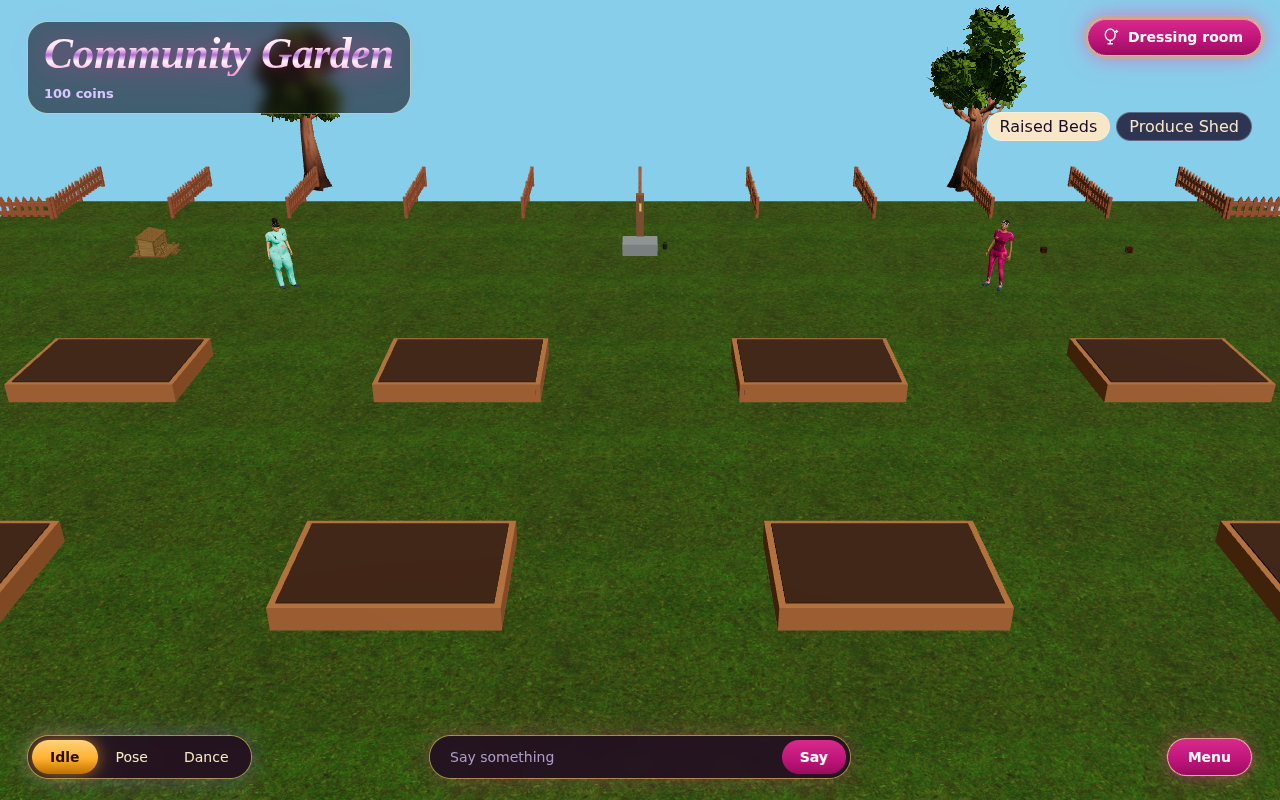
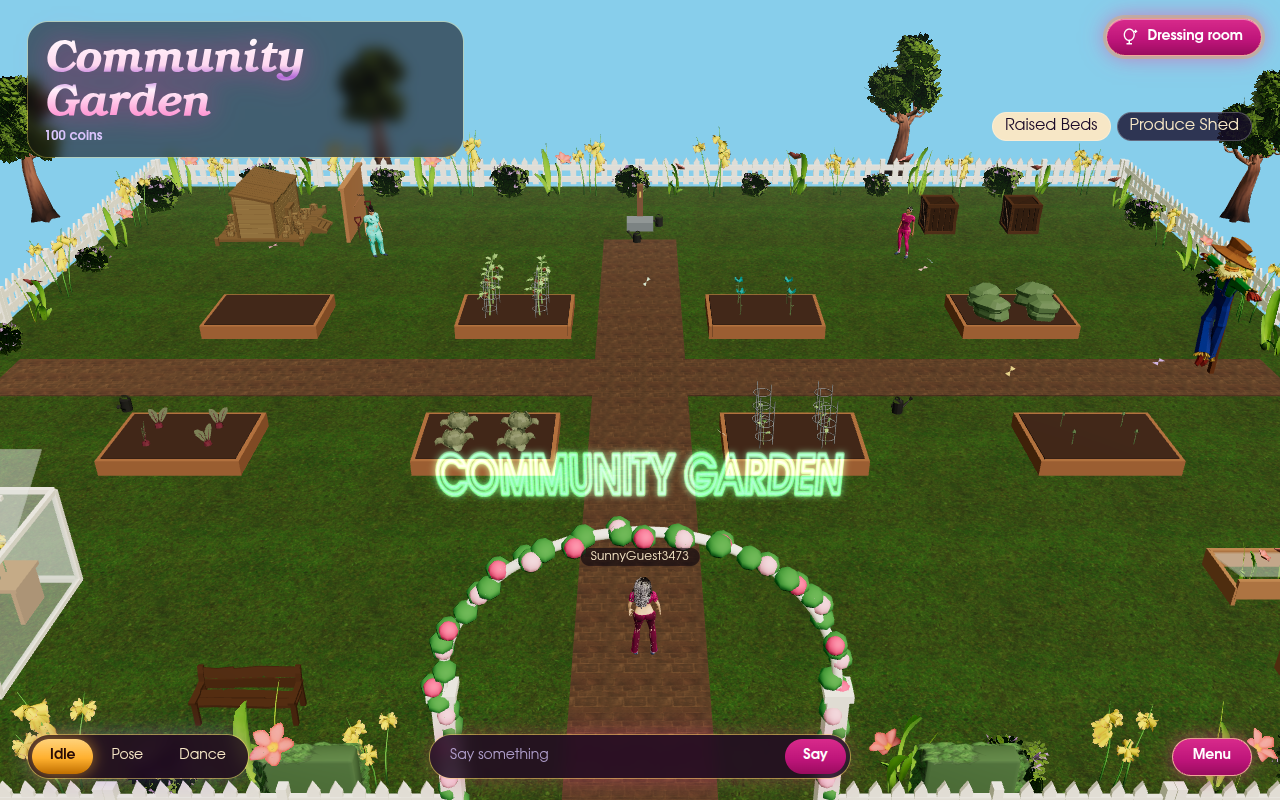
feat(garden): visible crops (opaque GLBs), true-scale shed and props, wider camera; drop floating sign

diff --git a/src/client/rooms/Garden.tsx b/src/client/rooms/Garden.tsx
@@ -9,7 +9,6 @@ import * as THREE from "three";
 import {
   BOUNDS,
   COMPOST_POS,
-  EXIT,
   RAISED_BEDS,
   SHED_POS,
   WATER_POS,
@@ -22,7 +21,6 @@ import { ROOMS } from "../../game/rooms.ts";
 import { useGardenState } from "./garden/gardenSession.ts";
 import { Floor, type PickHandler } from "./shared/Floor.tsx";
 import { useGameClip } from "./shared/game3d/gameClip.ts";
-import { MARQUEE, NeonText } from "./shared/Neon.tsx";
 import { PortalPads } from "./shared/PortalPads.tsx";
 import { TalkingNpc } from "./shared/TalkingNpc.tsx";
 import { GardenDressing } from "./garden/Dressing.tsx";
@@ -223,7 +221,7 @@ function WateringAction({ plotIndex }: { plotIndex: number | null }) {
       <ModelInstance
         path="/models/garden/watering-can.glb"
         rotation={[0.65, 0.2, 0.35]}
-        scale={0.85}
+        scale={2}
       />
       {/* Falling water droplets */}
       {[-0.2, 0, 0.2].map((ox, k) => (
@@ -264,7 +262,7 @@ function WaterStation() {
         path="/models/garden/watering-can.glb"
         position={[0.65, 0, 0.2]}
         rotation={[0, -0.4, 0]}
-        scale={0.7}
+        scale={1.6}
       />
     </group>
   );
@@ -333,15 +331,6 @@ export function Garden({ onPick }: { onPick: PickHandler }): JSX.Element {
       {/* Exit portal back to Suburbia street */}
       <PortalPads room={ROOMS.garden} color="#52b788" />
 
-      {/* Gate Marquee Sign */}
-      <NeonText
-        text="COMMUNITY GARDEN"
-        color="#52b788"
-        font={MARQUEE}
-        width={5.2}
-        position={[0, 3.8, EXIT[1] + 0.3]}
-      />
-
       {/* Paths, picket fence and rose arch, neighbors' beds, borders, greenhouse, bench */}
       <Suspense fallback={null}>
         <GardenDressing plots={garden.plots} />
@@ -363,7 +352,7 @@ export function Garden({ onPick }: { onPick: PickHandler }): JSX.Element {
           path="/models/garden/shed.glb"
           position={[SHED_POS[0], 0, SHED_POS[1]]}
           rotation={[0, Math.PI / 2, 0]}
-          scale={0.72}
+          scale={2.3}
         />
       </Suspense>
 
@@ -371,13 +360,13 @@ export function Garden({ onPick }: { onPick: PickHandler }): JSX.Element {
       <Suspense fallback={null}>
         <ModelInstance
           path="/models/garden/compost-bin.glb"
-          position={[COMPOST_POS[0] - 1.1, 0, COMPOST_POS[1]]}
-          scale={0.9}
+          position={[COMPOST_POS[0] - 1.4, 0, COMPOST_POS[1]]}
+          scale={6.5}
         />
         <ModelInstance
           path="/models/garden/compost-bin.glb"
-          position={[COMPOST_POS[0] + 1.1, 0, COMPOST_POS[1]]}
-          scale={0.9}
+          position={[COMPOST_POS[0] + 1.4, 0, COMPOST_POS[1]]}
+          scale={6.5}
         />
       </Suspense>
 

diff --git a/src/client/world/CameraRig.tsx b/src/client/world/CameraRig.tsx
@@ -191,8 +191,8 @@ const ROOM_SHOTS: Record<RoomId, { eye: THREE.Vector3; look: THREE.Vector3 }> =
     },
     // wide shot over the garden gate looking across the raised beds
     garden: {
-      eye: new THREE.Vector3(0, 10, 18),
-      look: new THREE.Vector3(0, 1, 0),
+      eye: new THREE.Vector3(0, 14, 27),
+      look: new THREE.Vector3(0, 0.5, 2.5),
     },
     // from by the door, over the floor piano to the band
     "music-studio": {
@@ -482,7 +482,7 @@ const MAX_DISTANCE: Record<RoomId, number> = {
   "video-store": 14,
   farm: 36,
   forest: 30,
-  garden: 28,
+  garden: 36,
   "halo-halo-cafe": 14,
   "ramen-shop": 14,
   "sushi-bar": 14,

diff --git a/src/client/rooms/garden/Dressing.tsx b/src/client/rooms/garden/Dressing.tsx
@@ -496,9 +496,9 @@ function Furniture(): JSX.Element {
         y: 0,
         z,
         yaw: i * 2,
-        sx: 0.7,
-        sy: 0.7,
-        sz: 0.7,
+        sx: 1.6,
+        sy: 1.6,
+        sz: 1.6,
       })),
     [],
   );

diff --git a/scripts/fix-garden-crop-alpha.py b/scripts/fix-garden-crop-alpha.py
@@ -1,0 +1,33 @@
+"""Makes the garden crop GLBs opaque.
+
+The Nature Crops FBX files import into Blender with a base color alpha of 0, so
+the optimized GLBs in public/models/garden/*-[1-4].glb draw nothing. This sets
+every material's base color alpha to 1 by rewriting only the GLB's JSON chunk
+(the meshopt buffers are untouched). Run it after scripts/import-garden.sh:
+    python3 -I scripts/fix-garden-crop-alpha.py
+"""
+import glob
+import json
+import struct
+
+for f in sorted(glob.glob("public/models/garden/*-[1-4].glb")):
+    d = open(f, "rb").read()
+    jl = struct.unpack("<I", d[12:16])[0]
+    j = json.loads(d[20 : 20 + jl])
+    rest = d[20 + jl :]
+    changed = False
+    for m in j.get("materials", []):
+        p = m.setdefault("pbrMetallicRoughness", {})
+        bc = p.get("baseColorFactor", [1, 1, 1, 1])
+        if bc[3] != 1 or m.get("alphaMode") not in (None, "OPAQUE"):
+            p["baseColorFactor"] = bc[:3] + [1.0]
+            m.pop("alphaMode", None)
+            changed = True
+    if not changed:
+        continue
+    js = json.dumps(j, separators=(",", ":")).encode()
+    js += b" " * ((4 - len(js) % 4) % 4)
+    out = d[:12] + struct.pack("<I", len(js)) + b"JSON" + js + rest
+    out = out[:8] + struct.pack("<I", len(out)) + out[12:]
+    open(f, "wb").write(out)
+    print("fixed", f)
